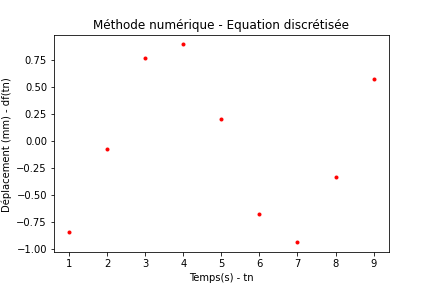
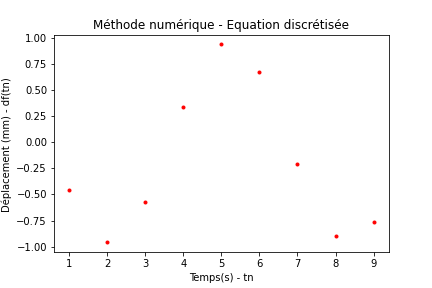
Modif fonction x(t)

diff --git a/EF1.py b/EF1.py
@@ -23,11 +23,12 @@ t=list(range(10))
 x=[]
 print("t = ",t)
 
-# fonction dérivée - (dx(t)/dt)=-x0sin(wt)
+# fonction x(t)=x0cos(wt)
 for tn in t: 
-    xn=-x0*np.sin(w*tn)
+    xn=x0*np.cos(w*tn)
     x.append(xn)
 print("\nx=",x)
+
 # fonction delta x et delta t
 dx=np.zeros((len(x)-1))
 dt=np.zeros((len(t)-1))
@@ -37,6 +38,7 @@ dt=np.zeros((len(t)-1))
 ldx=[]
 ldt=[]
 ldf=[]
+
 # Boucle de calcul delta x 
 for i in range(len(x)-1):
 #    print("\nxi=",x[i])
@@ -54,12 +56,14 @@ for n in range(len(t)-1):
     ldt.append(dt[n])
 # Liste delta t
 print("\nldt=",ldt)
+
+# fonction dérivée - (dx(t)/dt)=-x0sin(wt)
 # Boucle imbriquée -> calcul de la dérivée discrétisée df 
 for dx in ldx :
     for dt in ldt :
         df=(dx/dt)
     ldf.append(df)
-
+# Liste df 
 print("\nldf=",ldf)
 
 
